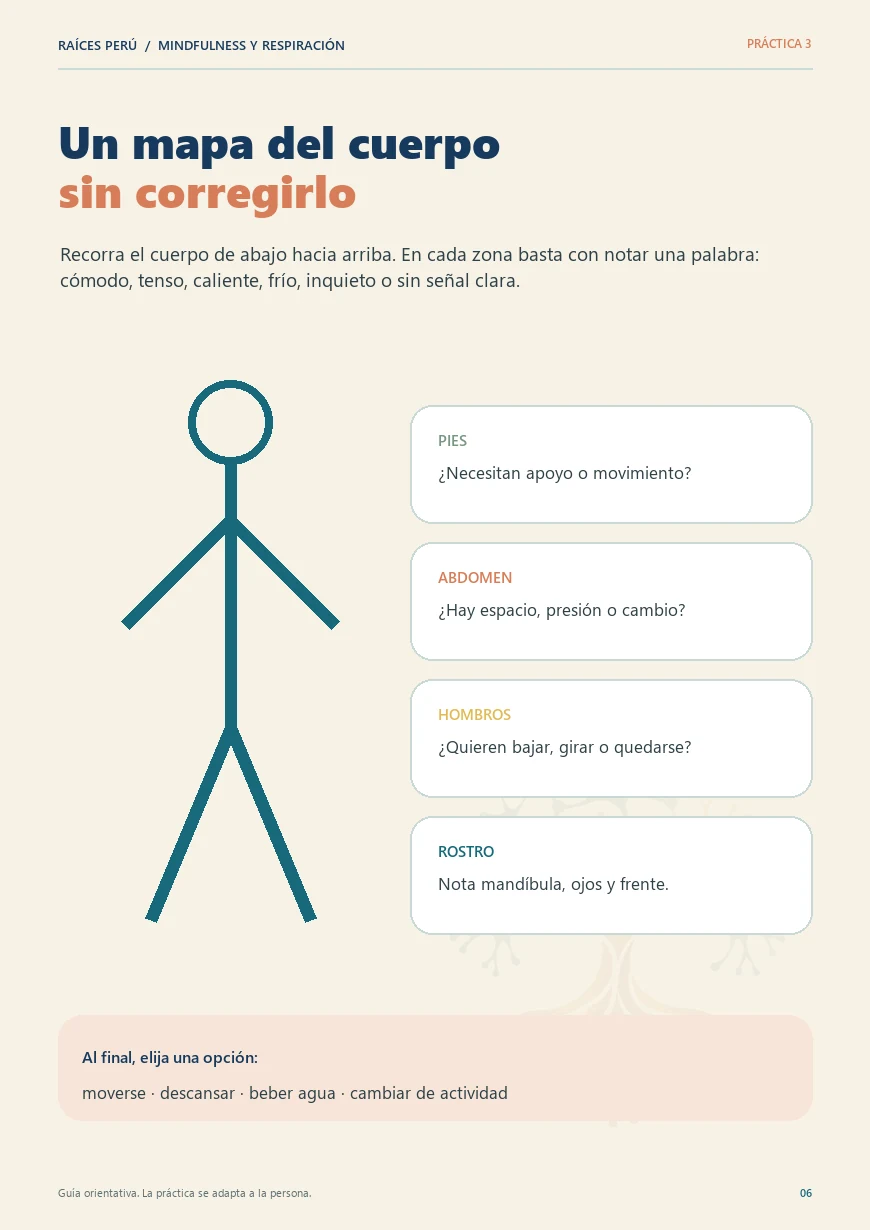
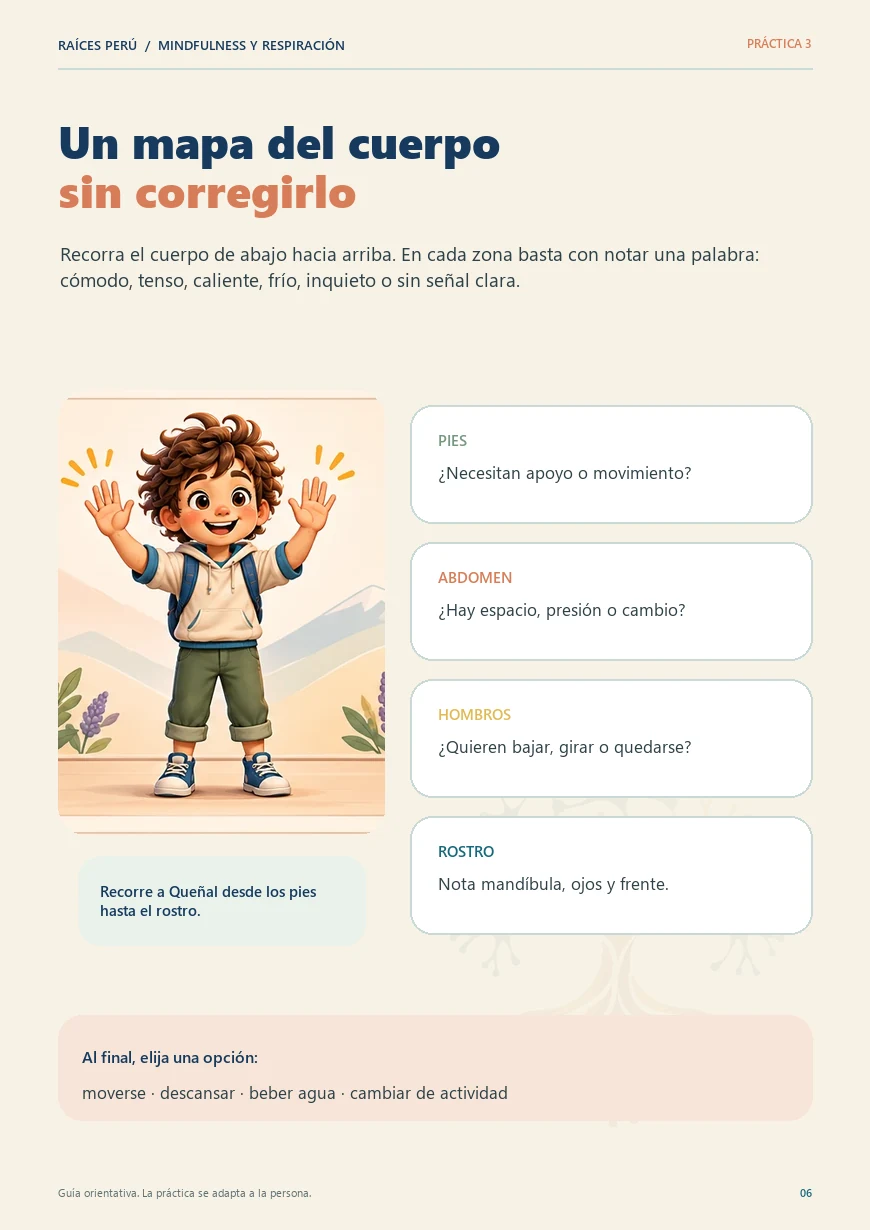
Completa guias visuales 3D de Queñal

Changed region(s): [[0.0621, 0.3089, 0.4655, 0.7724]]

diff --git a/render_attention_manual_upgrade.py b/render_attention_manual_upgrade.py
@@ -9,6 +9,7 @@ ROOT = Path(__file__).resolve().parent
 ASSETS = ROOT / "assets"
 PAGES = ASSETS / "manuales" / "lector" / "retos-atencion-visual-6-9"
 STORYBOARD = ASSETS / "manuales" / "escenas-3d" / "retos-atencion-visual-v1.png"
+RULES_STORYBOARD = ASSETS / "manuales" / "escenas-3d" / "retos-atencion-reglas-v1.png"
 PDF = Path(r"D:\LISSETH\RAICES\MANUALES\PRODUCCION EDITORIAL RAICES\01_MANUALES_FINALIZADOS\12_Retos_de_atencion_visual_INFANCIA_6a9_RAICES_Peru.pdf")
 
 
@@ -17,10 +18,20 @@ UPGRADES = {
     4: (1, "¿Cuál no pertenece?", "En cada grupo hay un objeto diferente. Señálalo y explica tu criterio.", "Puede haber más de una explicación si el criterio está claro."),
     5: (2, "¿Qué sigue?", "Mira los objetos y elige cuál continuaría la secuencia.", "Explica la regla con tus palabras antes de responder."),
     6: (3, "Sigue el camino", "Empieza en una semilla. ¿A qué planta llega cada camino?", "Recorre cada camino con el dedo sin escribir."),
+    9: (4, "Ahora cambia la regla", "Primero encuentra las aves. Después ignóralas y busca los objetos verdes.", "Cambiar la regla también es parte del reto: detente, escucha y vuelve a mirar."),
+    10: (5, "Busca cinco cambios", "Compara las dos escenas del jardín. ¿Qué cambió?", "Puedes describir un cambio aunque no encuentres los cinco."),
 }
 
 
 def panel(sheet, index):
+    if index >= 4:
+        rules = Image.open(RULES_STORYBOARD).convert("RGB")
+        if index == 4:
+            crop = rules.crop((8, 8, rules.width - 8, 535))
+        else:
+            crop = rules.crop((8, 550, rules.width - 8, rules.height - 8))
+        crop.thumbnail((710, 700), Image.Resampling.LANCZOS)
+        return crop
     col, row = index % 2, index // 2
     x0, x1 = ((8, 623), (640, 1255))[col]
     y0, y1 = ((8, 578), (591, 1238))[row]
@@ -48,6 +59,20 @@ def upgrade(page_number, sheet):
     mask_draw.rounded_rectangle((0, 0, art.width, art.height), radius=30, fill=255)
     page.paste(art, (x, y), mask)
 
+    if page_number == 9:
+        round_rect(draw, (88, 625, 418, 795), PALE_BLUE, None, 24)
+        draw.text((118, 657), "REGLA 1", font=font(15, bold=True), fill=TEAL)
+        text_block(draw, (118, 700), "Señala cada ave que encuentres.", font(18, bold=True), NAVY, 260, 6)
+        round_rect(draw, (452, 625, 782, 795), "#E9F1E9", None, 24)
+        draw.text((482, 657), "REGLA 2", font=font(15, bold=True), fill="#6F9278")
+        text_block(draw, (482, 700), "Sin mover nada, señala ahora los objetos verdes.", font(18, bold=True), NAVY, 260, 6)
+    elif page_number == 10:
+        for index in range(5):
+            x0 = 88 + (index % 3) * 235
+            y0 = 625 + (index // 3) * 118
+            round_rect(draw, (x0, y0, x0 + 210, y0 + 92), "#FFFFFF", LINE, 20, 2)
+            draw.text((x0 + 24, y0 + 32), f"Cambio {index + 1}", font=font(16, bold=True), fill=NAVY)
+
     round_rect(draw, (88, 980, 782, 1068), "#FFFFFF", LINE, 24, 2)
     text_block(draw, (118, 1008), support, font(15, bold=True), INK, 640, 5)
     page.convert("RGB").save(path, "WEBP", quality=94, method=6)
@@ -66,4 +91,4 @@ if __name__ == "__main__":
     for number in UPGRADES:
         upgrade(number, storyboard)
     rebuild_pdf()
-    print(f"Actualizadas 4 páginas y PDF: {PDF}")
+    print(f"Actualizadas {len(UPGRADES)} páginas y PDF: {PDF}")

diff --git a/render_mindfulness_manual.py b/render_mindfulness_manual.py
@@ -244,14 +244,9 @@ def page_06():
     page, d = base_page(6, "Práctica 3")
     title(d, 110, "Un mapa del cuerpo", "sin corregirlo")
     text_block(d, (60, 240), "Recorra el cuerpo de abajo hacia arriba. En cada zona basta con notar una palabra: cómodo, tenso, caliente, frío, inquieto o sin señal clara.", font(19), INK, 740, 9)
-    # Simple body map illustration.
-    cx = 230
-    d.ellipse((cx - 42, 380, cx + 42, 464), outline=TEAL, width=8)
-    d.line((cx, 464, cx, 730), fill=TEAL, width=12)
-    d.line((cx, 520, cx - 105, 625), fill=TEAL, width=11)
-    d.line((cx, 520, cx + 105, 625), fill=TEAL, width=11)
-    d.line((cx, 728, cx - 80, 920), fill=TEAL, width=12)
-    d.line((cx, 728, cx + 80, 920), fill=TEAL, width=12)
+    image_panel(page, "ilustraciones-raices/cuerpo-01-v2.webp", (58, 390, 385, 835), 30)
+    round_rect(d, (78, 856, 365, 945), PALE_GREEN, None, 22)
+    text_block(d, (100, 880), "Recorre a Queñal desde los pies hasta el rostro.", font(15, bold=True), NAVY, 245, 5)
     zones = [
         ("PIES", "¿Necesitan apoyo o movimiento?", GREEN),
         ("ABDOMEN", "¿Hay espacio, presión o cambio?", TERRA),
